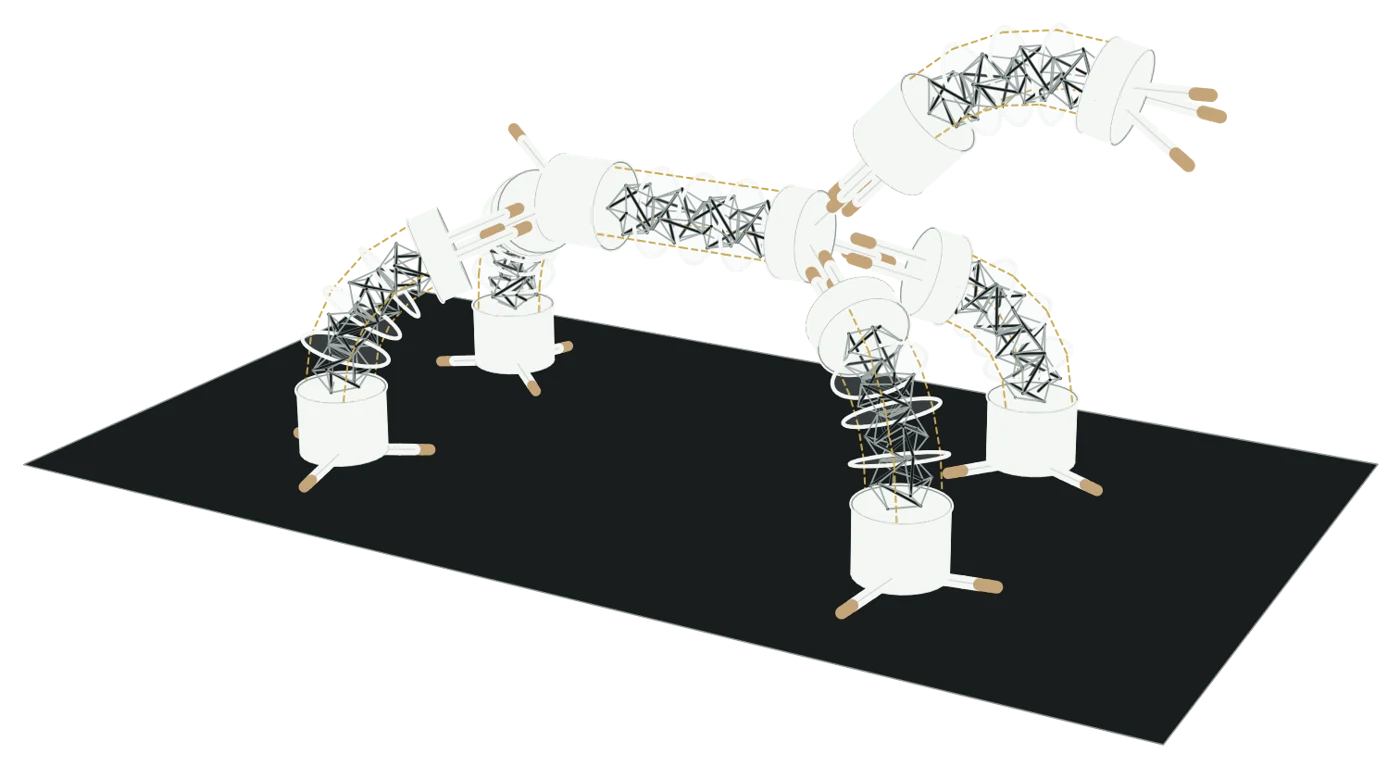
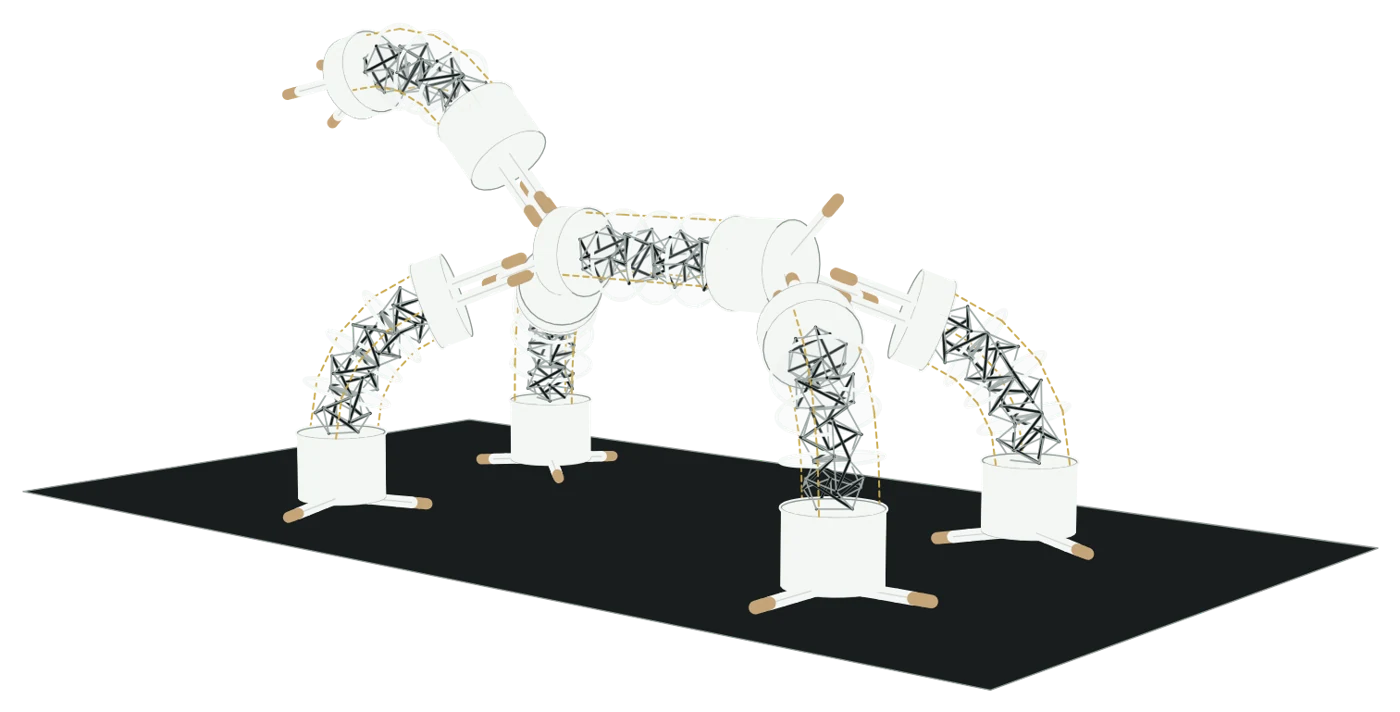
new elephant pose

diff --git a/assets/tecobot.js b/assets/tecobot.js
@@ -439,6 +439,7 @@
       return { base: place(R, -BASE_H, 0, 0), top: place(R, R.sb + TOP_H, 0, 0) };
     });
   };
+  window.__setView = function(az, el){ cam.az = az; cam.el = el; draw(); };   // used by eleph.py renders
   window.__view = function(){
     return { el: Math.round(cam.el*1000)/1000, az: Math.round(cam.az*1000)/1000,
              focus: FOCUS.map(function(v){ return Math.round(v*100)/100; }),
@@ -1587,7 +1588,8 @@
       cab0:[ null, [29, 78, -20], [29, 78, -20], [29, 78, -20], [29, 78, -20], [-20, 53, 53] ],
       desc:'The four-legged walker of C5 with a sixth robot clamped on the front claw’s free finger, curling forward and down as a trunk. Six robots, one spine, four legs and a trunk: an elephant. A conceptual shape.',
       label:'C6 — elephant (six robots)',
-      cam:{az:-0.5, el:0.3},
+      cam:{az:-3.855, el:0.147},
+      focus:[-1.04, 1.21, 7.57],   // the opening view, set by hand in Play (__view())
       zoom:1.0,
       conn:'claw–claw 3-to-1 ×5',
       build:function(){ return walker(true); }
@@ -2107,6 +2109,7 @@
     var mny=Math.min.apply(null,ys), mxy=Math.max.apply(null,ys);
     var mnz=Math.min.apply(null,zs), mxz=Math.max.apply(null,zs);
     FOCUS = [(mnx+mxx)/2, (mny+mxy)/2, (mnz+mxz)/2];
+    if(MORPHS[key].focus) FOCUS = MORPHS[key].focus.slice();   // a hand-set view keeps its own centre
     SPAN = Math.max(mxx-mnx, mxy-mny, mxz-mnz) + CLAW_L*1.25 + DISK_R*1.6;
     caption(key);
     readout();

diff --git a/index.html b/index.html
@@ -231,7 +231,7 @@
 
 <section class="sec" id="imagine" aria-labelledby="h-imagine">
   <div class="imagine">
-    <a class="imagineFig" href="play/#C6" aria-label="Open the elephant in Play"><img src="media/figs/elephant-night.webp" alt="Six TeCoBots docked into an elephant: a spine, four legs and a trunk." loading="lazy" width="1400" height="767"></a>
+    <a class="imagineFig" href="play/#C6" aria-label="Open the elephant in Play"><img src="media/figs/elephant-night.webp" alt="Six TeCoBots docked into an elephant: a spine, four legs and a trunk." loading="lazy" width="1400" height="712"></a>
     <div class="imagineText">
       <p class="imagineTag">Imagine</p>
       <h2 id="h-imagine">What it could become</h2>

diff --git a/assets/site.css b/assets/site.css
@@ -783,7 +783,6 @@ dialog.lightbox img{max-height:80vh;object-fit:contain}
   .imagineFig img{max-height:none;width:100%}
 }
 @media (max-width:600px){
-  main.content > #abstract .lead,
   .guide .sec .prose,.guide .sec .prose p,.guide ol.steps p,.guide .ph,.guide .cadNote p,.guide .parts dd,
   body.paperpage .pfig .explain,#idea-scalable .scaleRow .prose{text-align:left}
 }
@@ -812,3 +811,6 @@ main.content > #tasks,
 main.content > #videos,
 main.content > #next,
 main.content > #cite{padding-top:clamp(72px,5.6vw,108px)}
+
+/* abstract: justified on phones too (hyphenation keeps the gaps small) */
+@media (max-width:600px){ main.content > #abstract .lead{text-align:justify;hyphens:auto;-webkit-hyphens:auto} }
